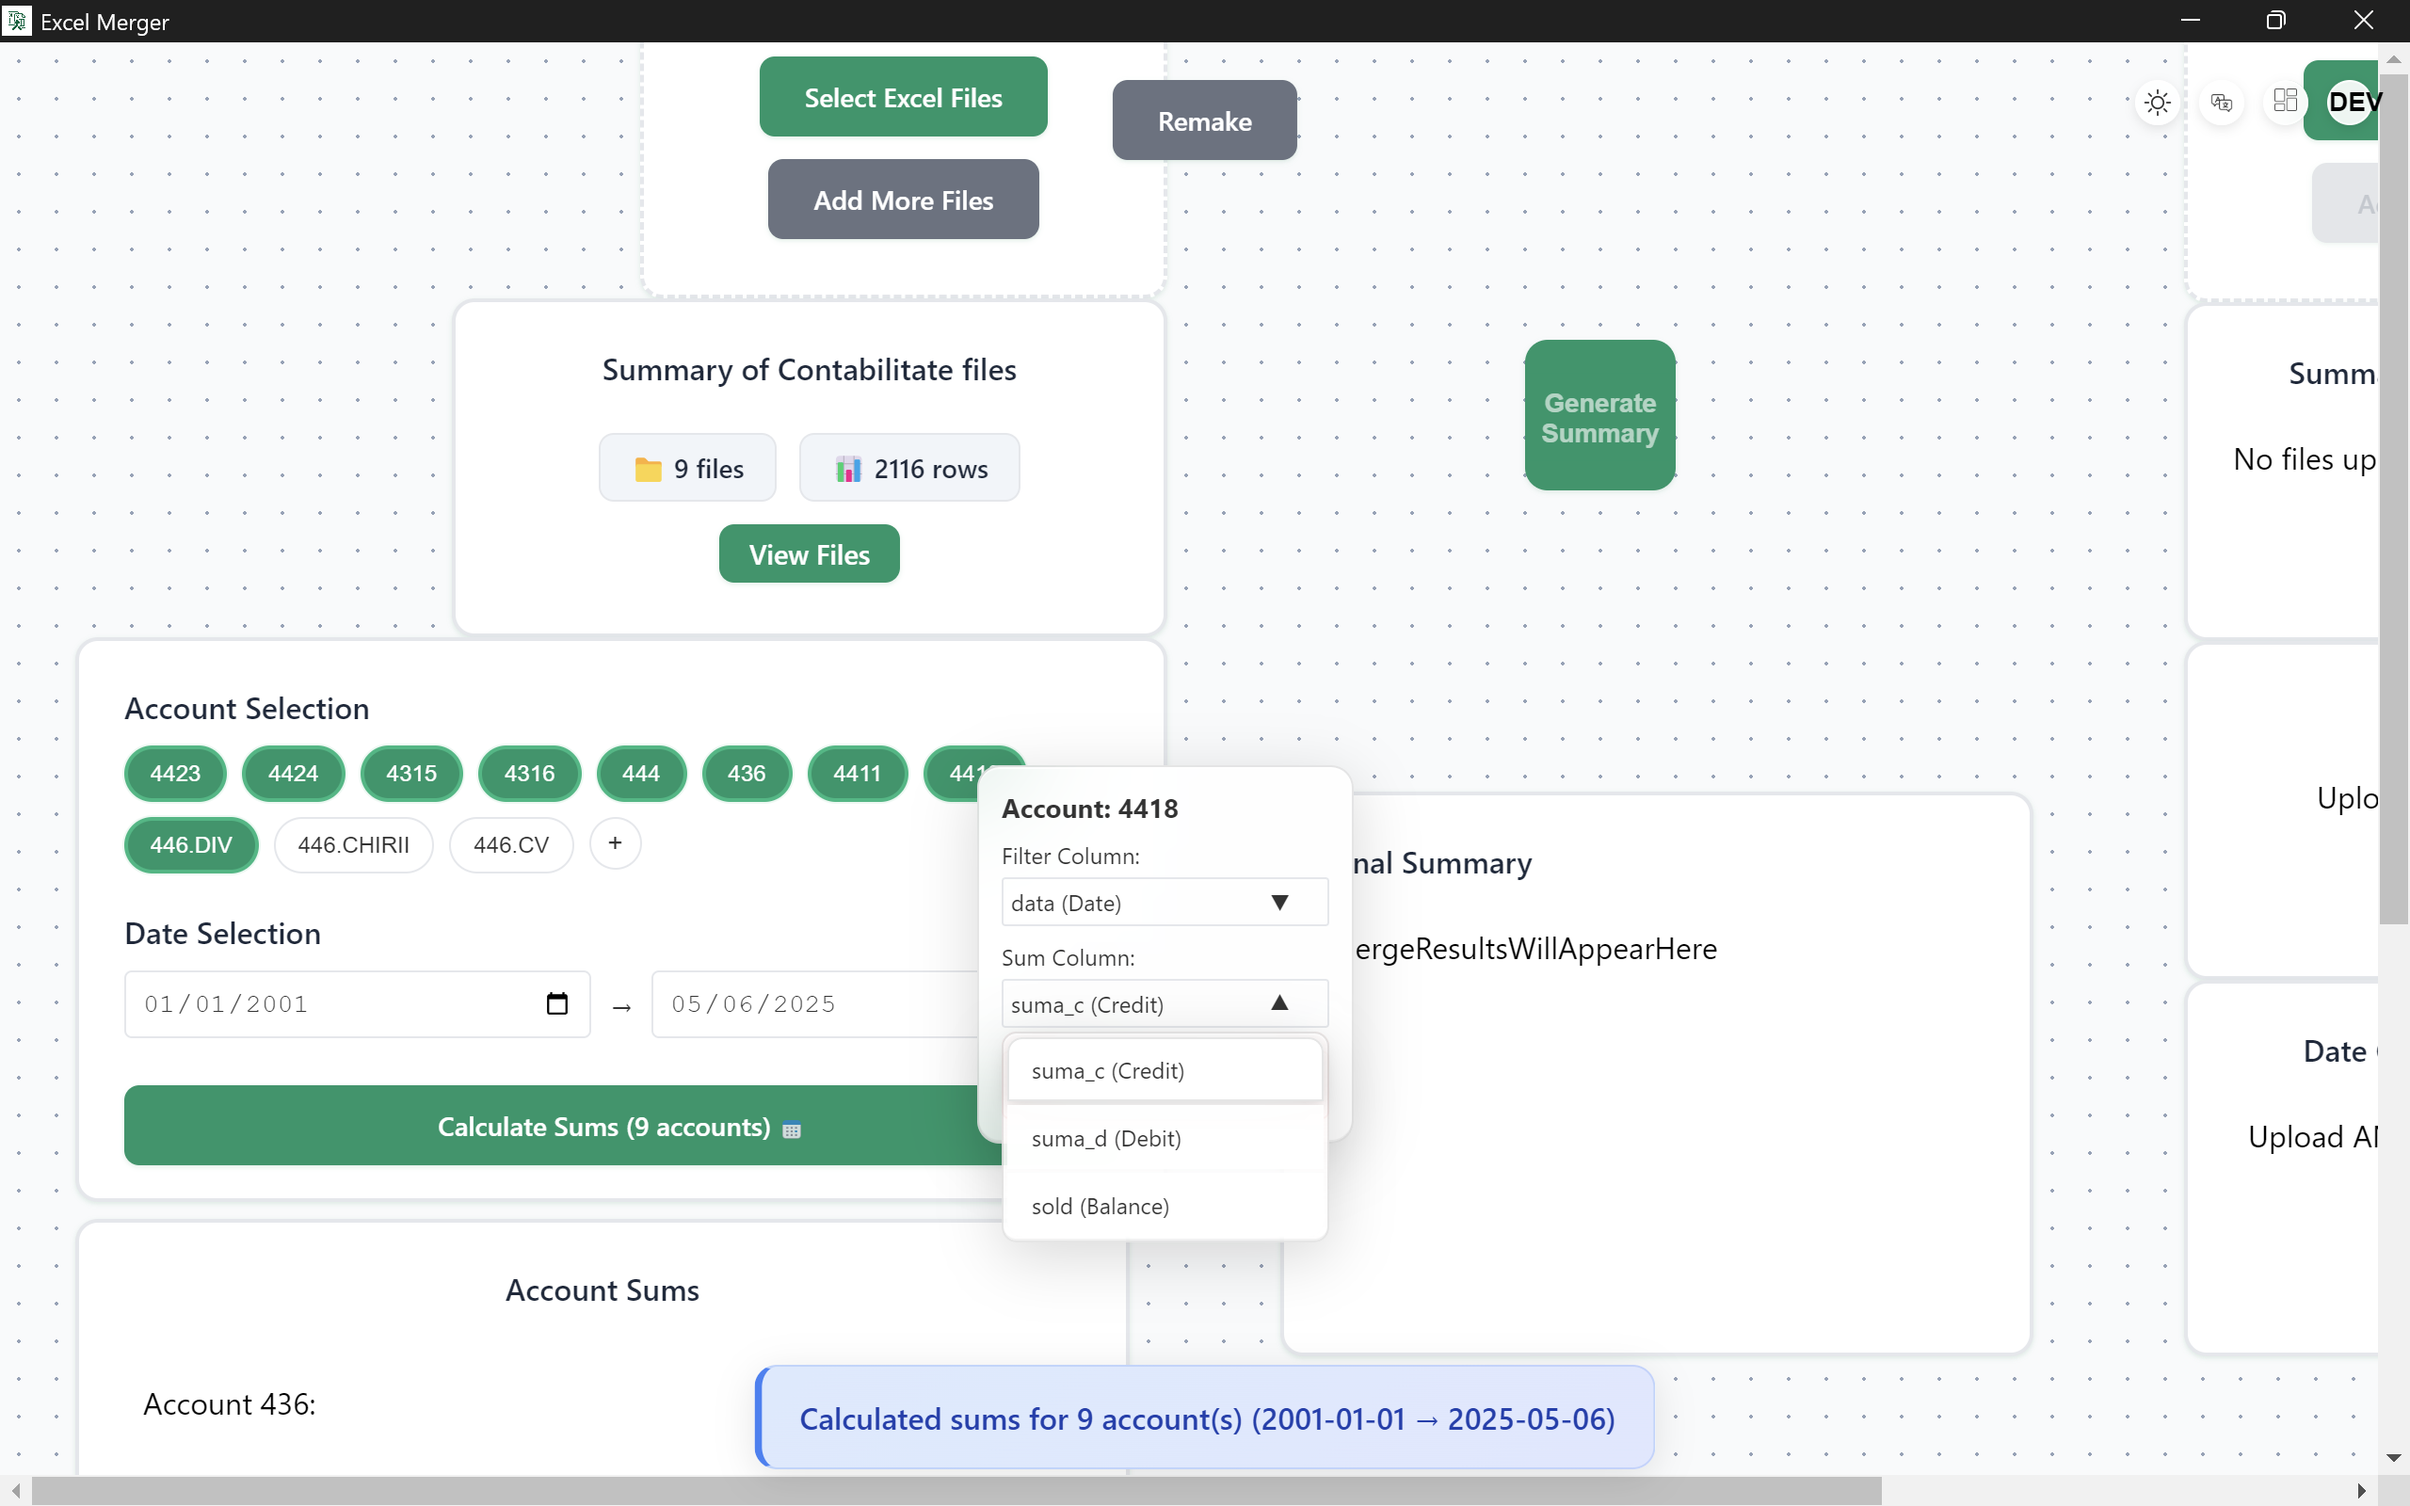
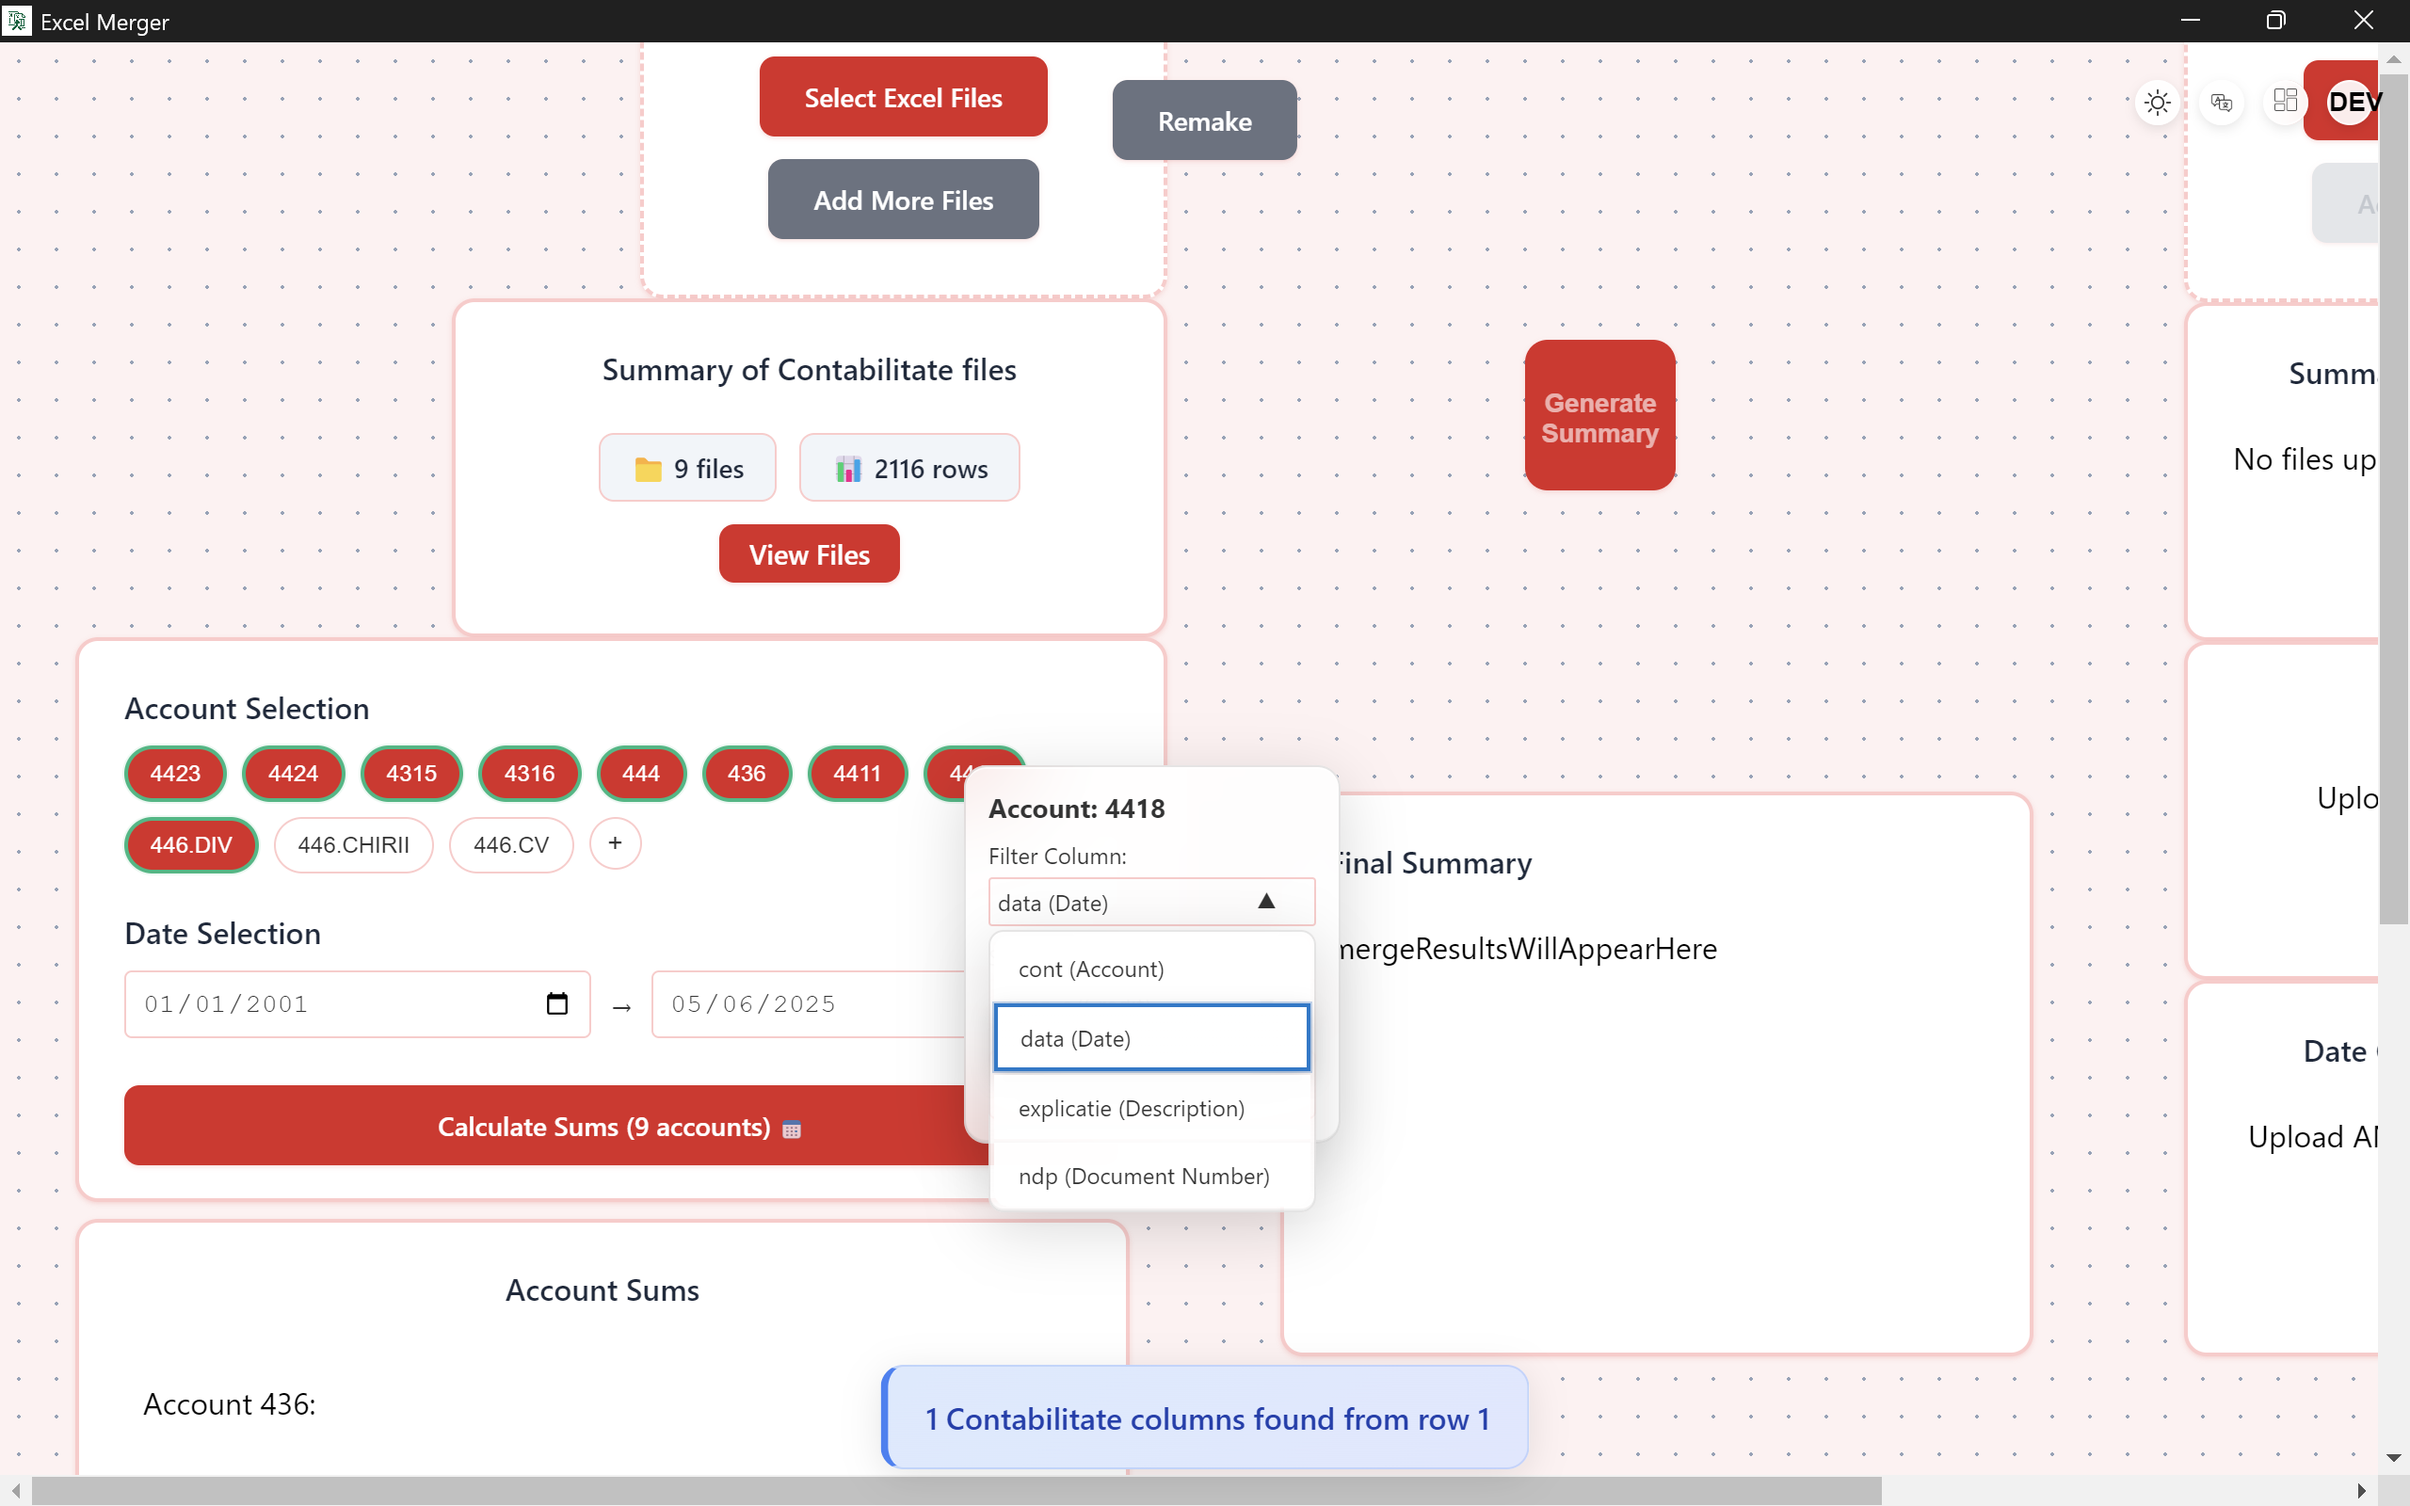
Use theme accent color instead of blue for dropdown option selection highlighting 🤖 Generated with [Claude Code](https://claude.ai/code) Co-Authored-By: Claude <noreply@anthropic.com>

diff --git a/src/App.js b/src/App.js
@@ -4115,11 +4115,11 @@ function App() {
                       backdropFilter: 'blur(15px)',
                       WebkitBackdropFilter: 'blur(15px)',
                       border: getAccountConfig(contextMenu.account).filterColumn === option.value ? 
-                        '2px solid var(--accent-color, #007acc)' : '1px solid transparent',
+                        '2px solid var(--theme-accent, #10b981)' : '1px solid transparent',
                       boxShadow: getAccountConfig(contextMenu.account).filterColumn === option.value ? 
                         `0 4px 12px var(--glass-shadow, rgba(0, 0, 0, 0.15)),
                          inset 0 1px 0 var(--glass-highlight, rgba(255, 255, 255, 0.9)),
-                         0 0 0 1px var(--accent-color, rgba(0, 122, 204, 0.3))` : 'none',
+                         0 0 0 1px var(--theme-accent, rgba(16, 185, 129, 0.3))` : 'none',
                       margin: '2px',
                       transition: 'all 0.2s ease'
                     }}
@@ -4228,11 +4228,11 @@ function App() {
                       backdropFilter: 'blur(15px)',
                       WebkitBackdropFilter: 'blur(15px)',
                       border: getAccountConfig(contextMenu.account).sumColumn === option.value ? 
-                        '2px solid var(--accent-color, #007acc)' : '1px solid transparent',
+                        '2px solid var(--theme-accent, #10b981)' : '1px solid transparent',
                       boxShadow: getAccountConfig(contextMenu.account).sumColumn === option.value ? 
                         `0 4px 12px var(--glass-shadow, rgba(0, 0, 0, 0.15)),
                          inset 0 1px 0 var(--glass-highlight, rgba(255, 255, 255, 0.9)),
-                         0 0 0 1px var(--accent-color, rgba(0, 122, 204, 0.3))` : 'none',
+                         0 0 0 1px var(--theme-accent, rgba(16, 185, 129, 0.3))` : 'none',
                       margin: '2px',
                       transition: 'all 0.2s ease'
                     }}
